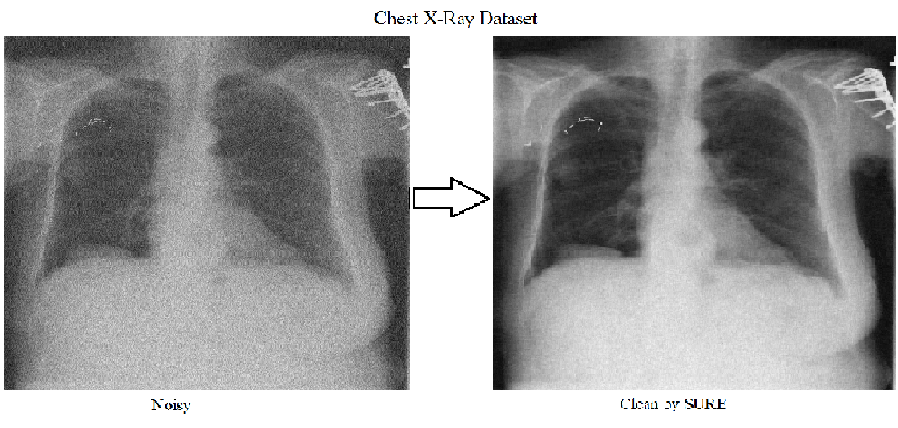
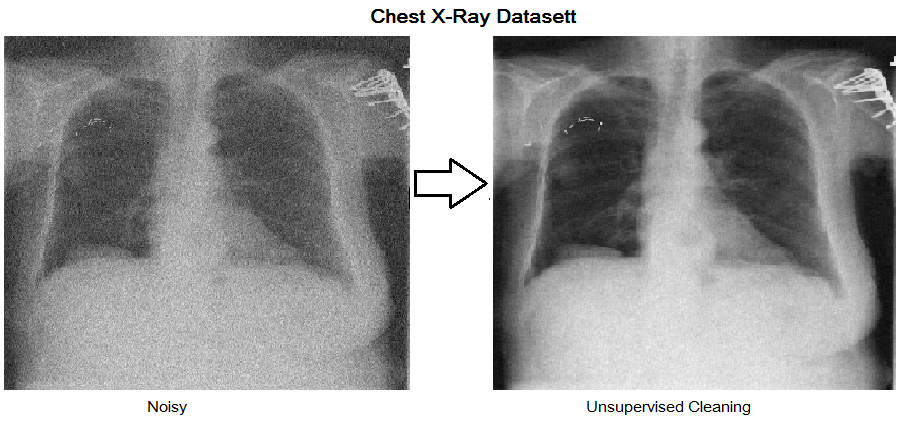
project page updated

diff --git a/xray_denoising.html b/xray_denoising.html
@@ -144,12 +144,12 @@ permalink: /xray-denoising
 
 #cf {
   position:relative;
-  max-height:301px;
+  /*max-height:301px;*/
   /*width:450px;*/
 
   width:100%;
   height:100%;
-  /*overflow:hidden; */
+  overflow:hidden; 
   /*width:inherit;*/
 
   /*max-height: auto;*/
@@ -405,22 +405,21 @@ iframe {
   <!-- ====================================================== -->
 
     <br>
-  <center>
     <div class="row section center row-eq-height">
       <div class="col center col-sm-8 col-sm-offset-2">
         <div id="cf">
-          <center>
-          <img src="./images/xray-denoising/cropped_07.png" class="img-responsive" id="firstimage"/>
+
+          <img src="./images/xray-denoising/CHEST.png" class="img-responsive" id="firstimage"/>
+          <img src="./images/xray-denoising/NLM.png" class="img-responsive"/>
           <img src="./images/xray-denoising/CHEST.png" class="img-responsive"/>
-          <img src="./images/xray-denoising/NLM_NOISY_25.png" class="img-responsive"/>
-          <img src="./images/xray-denoising/NLM_SURE_CLEAN_25.png" class="img-responsive" id="lastimage"/>
-        </center>
+          <img src="./images/xray-denoising/NLM.png" class="img-responsive" id="lastimage"/>
+
         </div>
-        <span style="font-size:14px"><i>Example results on several image restoration problems. We use deep neural networks, but we never train/pretrain them using datasets. We use them as a structured image prior</i>.
+        <span style="font-size:14px"><i>Example Denoising: We trained a DnCNN to denoise an image without any ground  truth data.</i>.
         </span>
       </div>
+	  
     </div>
-  </center>
 
 
 
@@ -439,19 +438,11 @@ iframe {
 		deep learning based denoisers is the requirement of high quality
 		noiseless ground truth images that are difficult to obtain in many
 		medical imaging applications such as X-rays. To circumvent this issue,
-		we leverage recently proposed approach of \citep{soltanayev2018training}
+		we leverage recently proposed approach of this <a href="https://arxiv.org/pdf/1803.01314.pdf">paper</a>
 		that incorporates Stein's Unbiased Risk Estimator (SURE) to train a deep
 		convolutional neural network without requiring denoised ground truth 
 		X-ray data. 
-      </p>
-      <p> 
-        Apart from its diverse applications, our approach highlights
-        the inductive bias captured by standard generator
-        network architectures. It also bridges the gap between
-        two very popular families of image restoration methods:
-        learning-based methods using deep convolutional networks
-        and learning-free methods based on handcrafted image priors
-        such as self-similarity.
+
       </p>
       <!-- </div> -->
     </div>
@@ -461,46 +452,31 @@ iframe {
     <!-- ====================================================== -->
     <!-- ===================== LINKS ========================== -->
     <!-- ====================================================== -->
-    <center>
     <div class="row section" style="margin-bottom: -12px">
-      <div class="col-sm-10 col-sm-offset-1">
+	
+      <div class="col-sm-10 col-sm-offset-1" >
       <!-- <div class="col-sm-12 center"> -->
-        <div class="col-sm-3" style="margin-bottom: 12px">
+        <div class="col-sm-3" style="margin-bottom: 12px" align="center">
           <!-- <div class="col-sm-12"> -->
             <a href="https://sites.skoltech.ru/app/data/uploads/sites/25/2018/04/deep_image_prior.pdf">
                 <img src="./images/projects/pdf.svg" class="img_links img-responsive">
                 <div class="author">Paper</div>
             </a>
-          <!-- </div> -->
-        </div>
-        <div class="col-sm-3" style="margin-bottom: 12px">
-          <!-- <div class="col-sm-12"> -->
-            <a href="https://box.skoltech.ru/index.php/s/ib52BOoV58ztuPM">
-                <img src="./images/projects/pdf.svg" class="img_links img-responsive" >
-                <div class="author">Supmat</div>
-            </a>
-          <!-- </div> -->
-        </div>
-        <div class="col-sm-3" style="margin-bottom: 12px">
-          <!-- <div class="col-sm-12"> -->
-            <a href="https://box.skoltech.ru/index.php/s/INaUzvTWLak3h7Q">
-                <img src="./images/projects/pdf.svg" class="img_links img-responsive" >
-                <div class="author">Paper (journal)</div>
-            </a>
+
           <!-- </div> -->
         </div>
         <div class="col-sm-3" style="margin-bottom: 12px">
           <!-- <div class="col-sm-12"> -->
             <a href="https://github.com/DmitryUlyanov/deep-image-prior" >
                 <img src="./images/projects/github.svg" class="img_links img-responsive">
-                <div class="author">Code</div>
+                <div class="author">   Code</div>
             </a>
           <!-- </div> -->
         </div>
+		</div>
       <!-- </div> -->
     </div>
-  </div>
-  </center>
+  
 
 
     <!-- ====================================================== -->
@@ -510,13 +486,13 @@ iframe {
       <!-- <div class="col-xs-8 col-xs-offset-2 text-justify"> -->
       <div class="section_title">Main idea</div>
       <p> <!-- style="text-indent: 30px" -->
-	  \bf{X}
+
 
       We consider recovering true X-ray image $\boldsymbol{x} \in \mathbb{R}^m$ from its noisy measurements of the form   
 		\begin{equation}
 		\boldsymbol{y} = \boldsymbol{x} + \boldsymbol{w},
 	\end{equation}
-		where $\bold{y} \in \mathbb{R}^m$ is noise corrupted image, and $\boldsymbol{w} \in \mathbb{R}^m$ denote
+		where $\boldsymbol{y} \in \mathbb{R}^m$ is noise corrupted image, and $\boldsymbol{w} \in \mathbb{R}^m$ denote
 		independent and identically distributed Gaussian noise i.e.  $\boldsymbol{w} \sim \mathcal{N}(0,\sigma^2 \boldsymbol{I}) $
 		where $\boldsymbol{I}$ is identity matrix and $\sigma$ is standard deviation that is assumed to be known. We are interested
 		in a weakly differentiable function $f_\theta(.)$ parameterized by $\theta$ that maps noisy X-ray images $\boldsymbol{y}$
@@ -550,117 +526,37 @@ iframe {
 	
 	
 
-      <!-- ====================================================== -->
-    <!-- ============== PhotoSwipe ============================ -->
-    <!-- ====================================================== -->
-    <!-- <div class="container"> -->
-        <div class="pswp" tabindex="-1" role="dialog" aria-hidden="true">
-
-          <!-- Background of PhotoSwipe. 
-               It's a separate element, as animating opacity is faster than rgba(). -->
-          <div class="pswp__bg"></div>
-
-          <!-- Slides wrapper with overflow:hidden. -->
-          <div class="pswp__scroll-wrap">
-
-              <!-- Container that holds slides. PhotoSwipe keeps only 3 slides in DOM to save memory. -->
-              <!-- don't modify these 3 pswp__item elements, data is added later on. -->
-              <div class="pswp__container">
-                  <div class="pswp__item"></div>
-                  <div class="pswp__item"></div>
-                  <div class="pswp__item"></div>
-              </div>
-
-              <!-- Default (PhotoSwipeUI_Default) interface on top of sliding area. Can be changed. -->
-              <div class="pswp__ui pswp__ui--hidden">
-
-                  <div class="pswp__top-bar">
-
-                      <!--  Controls are self-explanatory. Order can be changed. -->
-
-                      <div class="pswp__counter"></div>
-
-                      <button class="pswp__button pswp__button--close" title="Close (Esc)"></button>
-
-                      <button class="pswp__button pswp__button--share" title="Share"></button>
-
-                      <button class="pswp__button pswp__button--fs" title="Toggle fullscreen"></button>
-
-                      <button class="pswp__button pswp__button--zoom" title="Zoom in/out"></button>
-
-                      <!-- Preloader demo https://codepen.io/dimsemenov/pen/yyBWoR -->
-                      <!-- element will get class pswp__preloader- -active when preloader is running -->
-                      <div class="pswp__preloader">
-                          <div class="pswp__preloader__icn">
-                            <div class="pswp__preloader__cut">
-                              <div class="pswp__preloader__donut"></div>
-                            </div>
-                          </div>
-                      </div>
-                  </div>
-
-                  <div class="pswp__share-modal pswp__share-modal--hidden pswp__single-tap">
-                      <div class="pswp__share-tooltip"></div> 
-                  </div>
-
-                  <button class="pswp__button pswp__button--arrow--left" title="Previous (arrow left)">
-                  </button>
-
-                  <button class="pswp__button pswp__button--arrow--right" title="Next (arrow right)">
-                  </button>
-
-                  <div class="pswp__caption">
-                      <div class="pswp__caption__center"></div>
-                  </div>
-
-                </div>
-
-              </div>
-
-        </div>
 
   
     <!-- ====================================================== -->
     <!-- ============== Restoration process =================== -->
     <!-- ====================================================== -->
     <div class="row section">
-      <div class="section_title">Visualization of restoration process
-      </div>
-        <p class="hint">
-        Click on the image below and use left and right arrows or swipe.
-        </p>
-      <br>
-      
-      <div class="row row-centered center" id="methods_table" style="margin-bottom: 15px">
-        <div class="col-sm col-centered">
-          <img class="img-responsive img-process" id='process-snail'    src="/assets/deep-image-prior/teaser/cropped_03.png"/>
-        </div>
+      <div class="section_title">Training and Results
+      </div >
+	  <div align="center">
+	  <div>
+	  <figure > 
+	  <img height=250 width=500 src="images/xray-denoising/loss.png" alt="loss"> 
+	  <figcaption>Figure shows SURE loss as function of number of steps of training at different noise levels.
+Note that higher levels of noise makes it hard for the network to converge</figcaption> </figure>
+	  </div>
+	  <div>
+        <table style="border-collapse:collapse;border-spacing:0;table-layout: fixed; width: 481px" class="tg"><colgroup><col style="width: 144px"><col style="width: 69px"><col style="width: 70px"><col style="width: 66px"><col style="width: 66px"><col style="width: 66px"></colgroup><tr><th style="font-family:Arial, sans-serif;font-size:14px;font-weight:bold;padding:2px 3px;border-style:solid;border-width:1px;overflow:hidden;word-break:normal;border-color:inherit;background-color:#ffffff;text-align:left;vertical-align:top">Data Set </th><th style="font-family:Arial, sans-serif;font-size:14px;font-weight:bold;padding:2px 3px;border-style:solid;border-width:1px;overflow:hidden;word-break:normal;border-color:inherit;background-color:#ffffff;text-align:left;vertical-align:top">Noise <br>Variance</th><th style="font-family:Arial, sans-serif;font-size:14px;font-weight:bold;padding:2px 3px;border-style:solid;border-width:1px;overflow:hidden;word-break:normal;border-color:inherit;background-color:#ffffff;text-align:left;vertical-align:top">Average <br>PSNR</th><th style="font-family:Arial, sans-serif;font-size:14px;font-weight:bold;padding:2px 3px;border-style:solid;border-width:1px;overflow:hidden;word-break:normal;border-color:inherit;background-color:#ffffff;text-align:left;vertical-align:top">Average<br>SSIM</th><th style="font-family:Arial, sans-serif;font-size:14px;font-weight:bold;padding:2px 3px;border-style:solid;border-width:1px;overflow:hidden;word-break:normal;border-color:inherit;background-color:#ffffff;text-align:left;vertical-align:top">Average<br>MSE</th><th style="font-family:Arial, sans-serif;font-size:14px;font-weight:bold;padding:2px 3px;border-style:solid;border-width:1px;overflow:hidden;word-break:normal;border-color:inherit;background-color:#ffffff;text-align:left;vertical-align:top">Average<br>Time</th></tr><tr><td style="font-family:Arial, sans-serif;font-size:14px;padding:2px 3px;border-style:solid;border-width:1px;overflow:hidden;word-break:normal;border-color:inherit;background-color:#ecf4ff;text-align:left;vertical-align:top">Indiana University  X-Rays Dataset </td><td style="font-family:Arial, sans-serif;font-size:14px;padding:2px 3px;border-style:solid;border-width:1px;overflow:hidden;word-break:normal;border-color:inherit;background-color:#ecf4ff;text-align:left;vertical-align:top">10 </td><td style="font-family:Arial, sans-serif;font-size:14px;padding:2px 3px;border-style:solid;border-width:1px;overflow:hidden;word-break:normal;border-color:inherit;background-color:#ecf4ff;text-align:left;vertical-align:top">37.50 </td><td style="font-family:Arial, sans-serif;font-size:14px;padding:2px 3px;border-style:solid;border-width:1px;overflow:hidden;word-break:normal;border-color:inherit;background-color:#ecf4ff;text-align:left;vertical-align:top">0.959 </td><td style="font-family:Arial, sans-serif;font-size:14px;padding:2px 3px;border-style:solid;border-width:1px;overflow:hidden;word-break:normal;border-color:inherit;background-color:#ecf4ff;text-align:left;vertical-align:top">07.00 </td><td style="font-family:Arial, sans-serif;font-size:14px;padding:2px 3px;border-style:solid;border-width:1px;overflow:hidden;word-break:normal;border-color:inherit;background-color:#ecf4ff;text-align:left;vertical-align:top">0.06</td></tr><tr><td style="font-family:Arial, sans-serif;font-size:14px;padding:2px 3px;border-style:solid;border-width:1px;overflow:hidden;word-break:normal;border-color:inherit;background-color:#ecf4ff;text-align:left;vertical-align:top"></td><td style="font-family:Arial, sans-serif;font-size:14px;padding:2px 3px;border-style:solid;border-width:1px;overflow:hidden;word-break:normal;border-color:inherit;background-color:#ecf4ff;text-align:left;vertical-align:top">25</td><td style="font-family:Arial, sans-serif;font-size:14px;padding:2px 3px;border-style:solid;border-width:1px;overflow:hidden;word-break:normal;border-color:inherit;background-color:#ecf4ff;text-align:left;vertical-align:top">32.00</td><td style="font-family:Arial, sans-serif;font-size:14px;padding:2px 3px;border-style:solid;border-width:1px;overflow:hidden;word-break:normal;border-color:inherit;background-color:#ecf4ff;text-align:left;vertical-align:top">0.881</td><td style="font-family:Arial, sans-serif;font-size:14px;padding:2px 3px;border-style:solid;border-width:1px;overflow:hidden;word-break:normal;border-color:inherit;background-color:#ecf4ff;text-align:left;vertical-align:top">13.15</td><td style="font-family:Arial, sans-serif;font-size:14px;padding:2px 3px;border-style:solid;border-width:1px;overflow:hidden;word-break:normal;border-color:inherit;background-color:#ecf4ff;text-align:left;vertical-align:top">0.06</td></tr><tr><td style="font-family:Arial, sans-serif;font-size:14px;padding:2px 3px;border-style:solid;border-width:1px;overflow:hidden;word-break:normal;border-color:inherit;background-color:#ecf4ff;text-align:left;vertical-align:top"></td><td style="font-family:Arial, sans-serif;font-size:14px;padding:2px 3px;border-style:solid;border-width:1px;overflow:hidden;word-break:normal;border-color:inherit;background-color:#ecf4ff;text-align:left;vertical-align:top">50</td><td style="font-family:Arial, sans-serif;font-size:14px;padding:2px 3px;border-style:solid;border-width:1px;overflow:hidden;word-break:normal;border-color:inherit;background-color:#ecf4ff;text-align:left;vertical-align:top">27.78</td><td style="font-family:Arial, sans-serif;font-size:14px;padding:2px 3px;border-style:solid;border-width:1px;overflow:hidden;word-break:normal;border-color:inherit;background-color:#ecf4ff;text-align:left;vertical-align:top">0.763</td><td style="font-family:Arial, sans-serif;font-size:14px;padding:2px 3px;border-style:solid;border-width:1px;overflow:hidden;word-break:normal;border-color:inherit;background-color:#ecf4ff;text-align:left;vertical-align:top">21.5</td><td style="font-family:Arial, sans-serif;font-size:14px;padding:2px 3px;border-style:solid;border-width:1px;overflow:hidden;word-break:normal;border-color:inherit;background-color:#ecf4ff;text-align:left;vertical-align:top">0.06</td></tr><tr><td style="font-family:Arial, sans-serif;font-size:14px;padding:2px 3px;border-style:solid;border-width:1px;overflow:hidden;word-break:normal;border-color:inherit;background-color:#efefef;text-align:left;vertical-align:top">Chest X-Rays </td><td style="font-family:Arial, sans-serif;font-size:14px;padding:2px 3px;border-style:solid;border-width:1px;overflow:hidden;word-break:normal;border-color:inherit;background-color:#efefef;text-align:left;vertical-align:top">10 </td><td style="font-family:Arial, sans-serif;font-size:14px;padding:2px 3px;border-style:solid;border-width:1px;overflow:hidden;word-break:normal;border-color:inherit;background-color:#efefef;text-align:left;vertical-align:top">37.55 </td><td style="font-family:Arial, sans-serif;font-size:14px;padding:2px 3px;border-style:solid;border-width:1px;overflow:hidden;word-break:normal;border-color:inherit;background-color:#efefef;text-align:left;vertical-align:top">0.962 </td><td style="font-family:Arial, sans-serif;font-size:14px;padding:2px 3px;border-style:solid;border-width:1px;overflow:hidden;word-break:normal;border-color:inherit;background-color:#efefef;text-align:left;vertical-align:top">13.57 </td><td style="font-family:Arial, sans-serif;font-size:14px;padding:2px 3px;border-style:solid;border-width:1px;overflow:hidden;word-break:normal;border-color:inherit;background-color:#efefef;text-align:left;vertical-align:top">0.19</td></tr><tr><td style="font-family:Arial, sans-serif;font-size:14px;padding:2px 3px;border-style:solid;border-width:1px;overflow:hidden;word-break:normal;border-color:inherit;background-color:#efefef;text-align:left;vertical-align:top"></td><td style="font-family:Arial, sans-serif;font-size:14px;padding:2px 3px;border-style:solid;border-width:1px;overflow:hidden;word-break:normal;border-color:inherit;background-color:#efefef;text-align:left;vertical-align:top">25</td><td style="font-family:Arial, sans-serif;font-size:14px;padding:2px 3px;border-style:solid;border-width:1px;overflow:hidden;word-break:normal;border-color:inherit;background-color:#efefef;text-align:left;vertical-align:top">31.85</td><td style="font-family:Arial, sans-serif;font-size:14px;padding:2px 3px;border-style:solid;border-width:1px;overflow:hidden;word-break:normal;border-color:inherit;background-color:#efefef;text-align:left;vertical-align:top">0.877</td><td style="font-family:Arial, sans-serif;font-size:14px;padding:2px 3px;border-style:solid;border-width:1px;overflow:hidden;word-break:normal;border-color:inherit;background-color:#efefef;text-align:left;vertical-align:top">26.14</td><td style="font-family:Arial, sans-serif;font-size:14px;padding:2px 3px;border-style:solid;border-width:1px;overflow:hidden;word-break:normal;border-color:inherit;background-color:#efefef;text-align:left;vertical-align:top">0.19</td></tr><tr><td style="font-family:Arial, sans-serif;font-size:14px;padding:2px 3px;border-style:solid;border-width:1px;overflow:hidden;word-break:normal;border-color:inherit;background-color:#efefef;text-align:left;vertical-align:top"></td><td style="font-family:Arial, sans-serif;font-size:14px;padding:2px 3px;border-style:solid;border-width:1px;overflow:hidden;word-break:normal;border-color:inherit;background-color:#efefef;text-align:left;vertical-align:top">50</td><td style="font-family:Arial, sans-serif;font-size:14px;padding:2px 3px;border-style:solid;border-width:1px;overflow:hidden;word-break:normal;border-color:inherit;background-color:#efefef;text-align:left;vertical-align:top">28.88</td><td style="font-family:Arial, sans-serif;font-size:14px;padding:2px 3px;border-style:solid;border-width:1px;overflow:hidden;word-break:normal;border-color:inherit;background-color:#efefef;text-align:left;vertical-align:top">0.774</td><td style="font-family:Arial, sans-serif;font-size:14px;padding:2px 3px;border-style:solid;border-width:1px;overflow:hidden;word-break:normal;border-color:inherit;background-color:#efefef;text-align:left;vertical-align:top">45.43</td><td style="font-family:Arial, sans-serif;font-size:14px;padding:2px 3px;border-style:solid;border-width:1px;overflow:hidden;word-break:normal;border-color:inherit;background-color:#efefef;text-align:left;vertical-align:top">0.19</td></tr></table>
+		Table shows performance of SURE based denoiser for two different datasets. SURE based model works comparably well although it does not require any clean dataset.
+		Interestingly, denoiser trained on [5] also works well on [8] </caption>
+		</table>
+      </div>  
 
-        <div class="col-sm col-centered">
-          <img class="img-responsive img-process" id='process-library' src="/assets/deep-image-prior/teaser/cropped_05.png"/>
-        </div>
-
-        <div class="col-sm col-centered">
-          <img class="img-responsive img-process" id='process-vase' src="/assets/deep-image-prior/teaser/cropped_08.png"/>
-        </div>
-
-        <div class="col-sm col-centered">
-          <img class="img-responsive img-process" id='process-zebra' src="/assets/deep-image-prior/teaser/cropped_01.png"/>
-        </div>
-
-        <div class="col-sm col-centered">
-          <img class="img-responsive img-process" id='process-F16' src="/assets/deep-image-prior/teaser/cropped_02.png"/>
-        </div>
-
-        <div class="col-sm col-centered">
-          <img class="img-responsive img-process" id='process-kate' src="/assets/deep-image-prior/teaser/cropped_09.png"/>
-        </div>
+        
       </div>
       
       <br>
       <br>
       <div class="section_title">Comparison with other methods</div>
-      <!-- <br> -->
+	  <div align="center">
+      <table style="border-collapse:collapse;border-spacing:0;border-color:#ccc;table-layout: fixed; width: 434px" class="tg"><colgroup><col style="width: 144px"><col style="width: 69px"><col style="width: 70px"><col style="width: 66px"><col style="width: 85px"></colgroup><tr><th style="font-family:Arial, sans-serif;font-size:14px;font-weight:bold;padding:2px 3px;border-style:solid;border-width:1px;overflow:hidden;word-break:normal;border-color:inherit;color:#333;background-color:#ffffff;text-align:left;vertical-align:top">Loss </th><th style="font-family:Arial, sans-serif;font-size:14px;font-weight:bold;padding:2px 3px;border-style:solid;border-width:1px;overflow:hidden;word-break:normal;border-color:inherit;color:#333;background-color:#ffffff;text-align:left;vertical-align:top">Noise<br>Variance</th><th style="font-family:Arial, sans-serif;font-size:14px;font-weight:bold;padding:2px 3px;border-style:solid;border-width:1px;overflow:hidden;word-break:normal;border-color:inherit;color:#333;background-color:#ffffff;text-align:left;vertical-align:top">Average<br>PSNR</th><th style="font-family:Arial, sans-serif;font-size:14px;font-weight:bold;padding:2px 3px;border-style:solid;border-width:1px;overflow:hidden;word-break:normal;border-color:inherit;color:#333;background-color:#ffffff;text-align:left;vertical-align:top">Average<br>SSIM</th><th style="font-family:Arial, sans-serif;font-size:14px;font-weight:bold;padding:2px 3px;border-style:solid;border-width:1px;overflow:hidden;word-break:normal;border-color:inherit;color:#333;background-color:#ffffff;text-align:left;vertical-align:top">Average<br>MSE</th></tr><tr><td style="font-family:Arial, sans-serif;font-size:14px;padding:2px 3px;border-style:solid;border-width:1px;overflow:hidden;word-break:normal;border-color:inherit;color:#333;background-color:#ecf4ff;text-align:left;vertical-align:top">SURE </td><td style="font-family:Arial, sans-serif;font-size:14px;padding:2px 3px;border-style:solid;border-width:1px;overflow:hidden;word-break:normal;border-color:inherit;color:#333;background-color:#ecf4ff;text-align:left;vertical-align:top">25 </td><td style="font-family:Arial, sans-serif;font-size:14px;padding:2px 3px;border-style:solid;border-width:1px;overflow:hidden;word-break:normal;border-color:inherit;color:#333;background-color:#ecf4ff;text-align:left;vertical-align:top">32.00 </td><td style="font-family:Arial, sans-serif;font-size:14px;padding:2px 3px;border-style:solid;border-width:1px;overflow:hidden;word-break:normal;border-color:inherit;color:#333;background-color:#ecf4ff;text-align:left;vertical-align:top">0.88 </td><td style="font-family:Arial, sans-serif;font-size:14px;padding:2px 3px;border-style:solid;border-width:1px;overflow:hidden;word-break:normal;border-color:inherit;color:#333;background-color:#ecf4ff;text-align:left;vertical-align:top">13.15</td></tr><tr><td style="font-family:Arial, sans-serif;font-size:14px;padding:2px 3px;border-style:solid;border-width:1px;overflow:hidden;word-break:normal;border-color:inherit;color:#333;background-color:#ecf4ff;text-align:left;vertical-align:top"></td><td style="font-family:Arial, sans-serif;font-size:14px;padding:2px 3px;border-style:solid;border-width:1px;overflow:hidden;word-break:normal;border-color:inherit;color:#333;background-color:#ecf4ff;text-align:left;vertical-align:top">50</td><td style="font-family:Arial, sans-serif;font-size:14px;padding:2px 3px;border-style:solid;border-width:1px;overflow:hidden;word-break:normal;border-color:inherit;color:#333;background-color:#ecf4ff;text-align:left;vertical-align:top">27.78</td><td style="font-family:Arial, sans-serif;font-size:14px;padding:2px 3px;border-style:solid;border-width:1px;overflow:hidden;word-break:normal;border-color:inherit;color:#333;background-color:#ecf4ff;text-align:left;vertical-align:top">0.76</td><td style="font-family:Arial, sans-serif;font-size:14px;padding:2px 3px;border-style:solid;border-width:1px;overflow:hidden;word-break:normal;border-color:inherit;color:#333;background-color:#ecf4ff;text-align:left;vertical-align:top">21.50</td></tr><tr><td style="font-family:Arial, sans-serif;font-size:14px;padding:2px 3px;border-style:solid;border-width:1px;overflow:hidden;word-break:normal;border-color:inherit;color:#333;background-color:#efefef;text-align:left;vertical-align:top">MSE </td><td style="font-family:Arial, sans-serif;font-size:14px;padding:2px 3px;border-style:solid;border-width:1px;overflow:hidden;word-break:normal;border-color:inherit;color:#333;background-color:#efefef;text-align:left;vertical-align:top">25 </td><td style="font-family:Arial, sans-serif;font-size:14px;padding:2px 3px;border-style:solid;border-width:1px;overflow:hidden;word-break:normal;border-color:inherit;color:#333;background-color:#efefef;text-align:left;vertical-align:top">35.39 </td><td style="font-family:Arial, sans-serif;font-size:14px;padding:2px 3px;border-style:solid;border-width:1px;overflow:hidden;word-break:normal;border-color:inherit;color:#333;background-color:#efefef;text-align:left;vertical-align:top">0.95 </td><td style="font-family:Arial, sans-serif;font-size:14px;padding:2px 3px;border-style:solid;border-width:1px;overflow:hidden;word-break:normal;border-color:inherit;color:#333;background-color:#efefef;text-align:left;vertical-align:top">08.96</td></tr><tr><td style="font-family:Arial, sans-serif;font-size:14px;padding:2px 3px;border-style:solid;border-width:1px;overflow:hidden;word-break:normal;border-color:inherit;color:#333;background-color:#efefef;text-align:left;vertical-align:top"></td><td style="font-family:Arial, sans-serif;font-size:14px;padding:2px 3px;border-style:solid;border-width:1px;overflow:hidden;word-break:normal;border-color:inherit;color:#333;background-color:#efefef;text-align:left;vertical-align:top">50</td><td style="font-family:Arial, sans-serif;font-size:14px;padding:2px 3px;border-style:solid;border-width:1px;overflow:hidden;word-break:normal;border-color:inherit;color:#333;background-color:#efefef;text-align:left;vertical-align:top">29.61</td><td style="font-family:Arial, sans-serif;font-size:14px;padding:2px 3px;border-style:solid;border-width:1px;overflow:hidden;word-break:normal;border-color:inherit;color:#333;background-color:#efefef;text-align:left;vertical-align:top">0.82</td><td style="font-family:Arial, sans-serif;font-size:14px;padding:2px 3px;border-style:solid;border-width:1px;overflow:hidden;word-break:normal;border-color:inherit;color:#333;background-color:#efefef;text-align:left;vertical-align:top">17.32</td></tr></table>
+   
     </div>
 
     <!-- ====================================================== -->
@@ -669,64 +565,30 @@ iframe {
     
 
     </div>
-    <iframe  id="myiframe" src="image_compare.html" scrolling="no" style="border-width: 0px;width: 100%;margin: 0;padding: 0" ></iframe>
-
-  
-    <div class="container">
-    <br>
-    <div class="row section" style="padding-bottom: 0px">
-      <div class="section_title">Methods in the comparison</div>
-      <div style="font-size: 10pt; margin-left: 35px">
-      <!-- <p> -->
-        <ul>
-      <li>
-        W. Lai, J. Huang, N. Ahuja and M. Yang, <a href="https://arxiv.org/abs/1704.03915">"Deep Laplacian Pyramid Networks for Fast and Accurate Super-Resolution"</a> CVPR, 2017
-      </li>
-      <li>C. Ledig, L. Theis, F. Huszar, J. Caballero, A. Cunningham, A. Acosta, A. Aitken, A. Tejani, J. Totz, Z. Wang and W. Shi,  <a href="https://arxiv.org/abs/1609.04802">"Photo-realistic single image super-resolution using a generative adversarial network"</a> CVPR, 2017
-      </li>
-      <li>
-      J. Huang, A. Singh and N. Ahuja, <a href="https://www.cv-foundation.org/openaccess/content_cvpr_2015/papers/Huang_Single_Image_Super-Resolution_2015_CVPR_paper.pdf">"Single Image Super-Resolution from Transformed Self-Exemplars"</a> CVPR, 2015
-      </li>
-      <li>D. Glasner, S. Bagon, and M. Irani, <a href="http://citeseerx.ist.psu.edu/viewdoc/download?doi=10.1.1.159.51&rep=rep1&type=pdf">"Super-resolution from a single image"</a> ICCV, 2009
-      </li>
-      <li>
-        V. Papyan,  Y. Romano,  J. Sulam  and  M.  Elad, <a href="https://arxiv.org/abs/1705.03239">"Convolutional  dictionary  learning  via  local  processing"</a> ICCV, 2017
-      </li>
-      <li>
-        K. Dabov, A. Foi, V. Katkovnik and K. Egiazarian, <a href="https://www.cs.tut.fi/~foi/GCF-BM3D/BM3D_TIP_2007.pdf">"Image Denoising by Sparse 3-D Transform-Domain Collaborative Filtering"</a> TIP, 2007
-      </li>
-      <li>
-      A. Buades, B. Coll and J. M. Morel, <a href="http://citeseerx.ist.psu.edu/viewdoc/download?doi=10.1.1.374.7899&rep=rep1&type=pdf">"A non-local algorithm for image denoising"</a> CVPR, 2005
-      </li>
-      <li>
-      J. Ren, L. Xu, Q. Yan and W. Sun, <a href="https://papers.nips.cc/paper/5774-shepard-convolutional-neural-networks.pdf">"Shepard Convolutional Neural Networks"</a> NIPS, 2015
-      </li>
-       </ul>
-    </div>
+    
     </div>
 
     <div class="row section">
-      <div class="section_title">Acknowledgements</div>
-      Dmitry Ulyanov and Victor Lempitsky are supported by the Ministry of Education and Science of the Russian Federation (grant 14.756.31.0001) and Andrea Vedaldi is supported by ERC 677195-IDIU. 
-      Interactive visualization is based on <a href="http://graduatestudents.ucmerced.edu/wlai24/">Jason Lai</a>'s visualization for <a href="http://vllab.ucmerced.edu/wlai24/LapSRN/">LapSRN</a>. Images for <i>Glasner et al.</i> super-resolution method are taken from <a href="https://sites.google.com/site/jbhuang0604/">Jia-Bin Huang</a>'s <a href="https://github.com/jbhuang0604/SelfExSR">SelfExSR</a> repository. 
+      <div class="section_title">Acknowledgments</div>
+	  This page's template was taken from <a href="https://dmitryulyanov.github.io/deep_image_prior">page.</a>
     </div>
 
     <center>
     <div class="row row-eq-height" style="margin-bottom: 18px; margin-top: 10px" >
        
-          <div class="col-sm-4" style="margin-bottom: 12px">
-              <a href="http://www.skoltech.ru/en/">
-                  <img src="/assets/skoltech.png" class="img-responsive">
+          <div class="col-sm-4" style="margin-bottom: 12px ">
+              <a href="http://itu.edu.pk/">
+                  <img src="images/projects/itu.png" class="img-responsive">
               </a>
           </div>
           <div class="col-sm-4" style="margin-bottom: 12px">
-              <a href="https://yandex.com/company/">
-                  <img src="/assets/yandex.png" class=" img-responsive">
+              <a href="http://spider.itu.edu.pk/">
+                  <img src="images/projects/spider.png" class=" img-responsive">
               </a>
           </div>
           <div class="col-sm-4" style="margin-bottom: 12px">
-              <a href="http://www.ox.ac.uk/">
-                  <img src="/assets/oxford.png" class="img-responsive">
+              <a href="https://www.nvidia.com/en-us/">
+                  <img src="images/projects/nvidia.png" class="img-responsive">
               </a>
           </div>
     </div>
